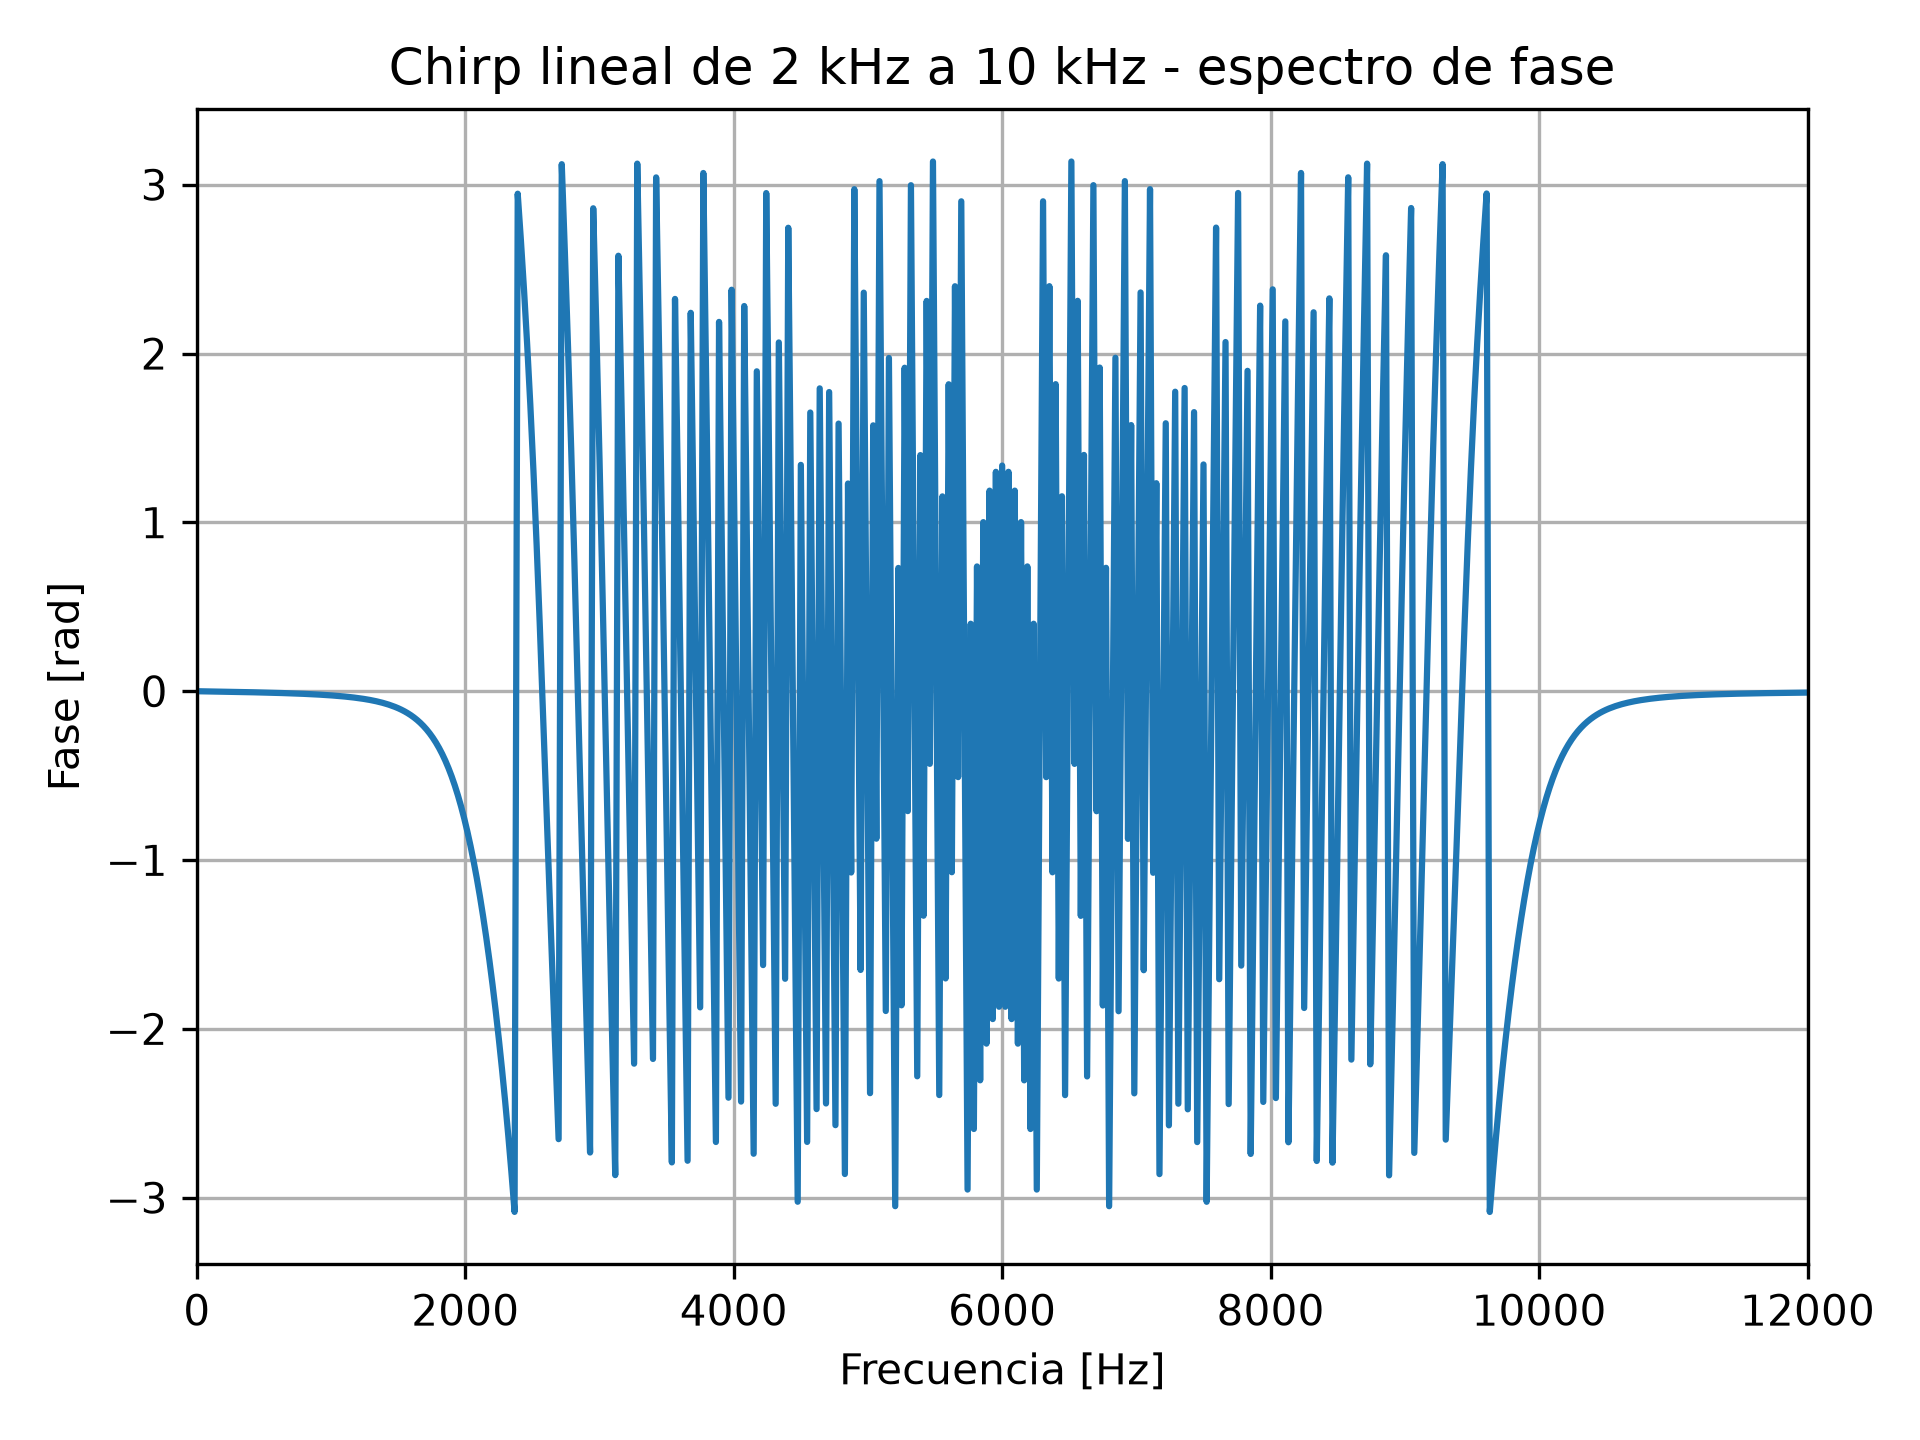
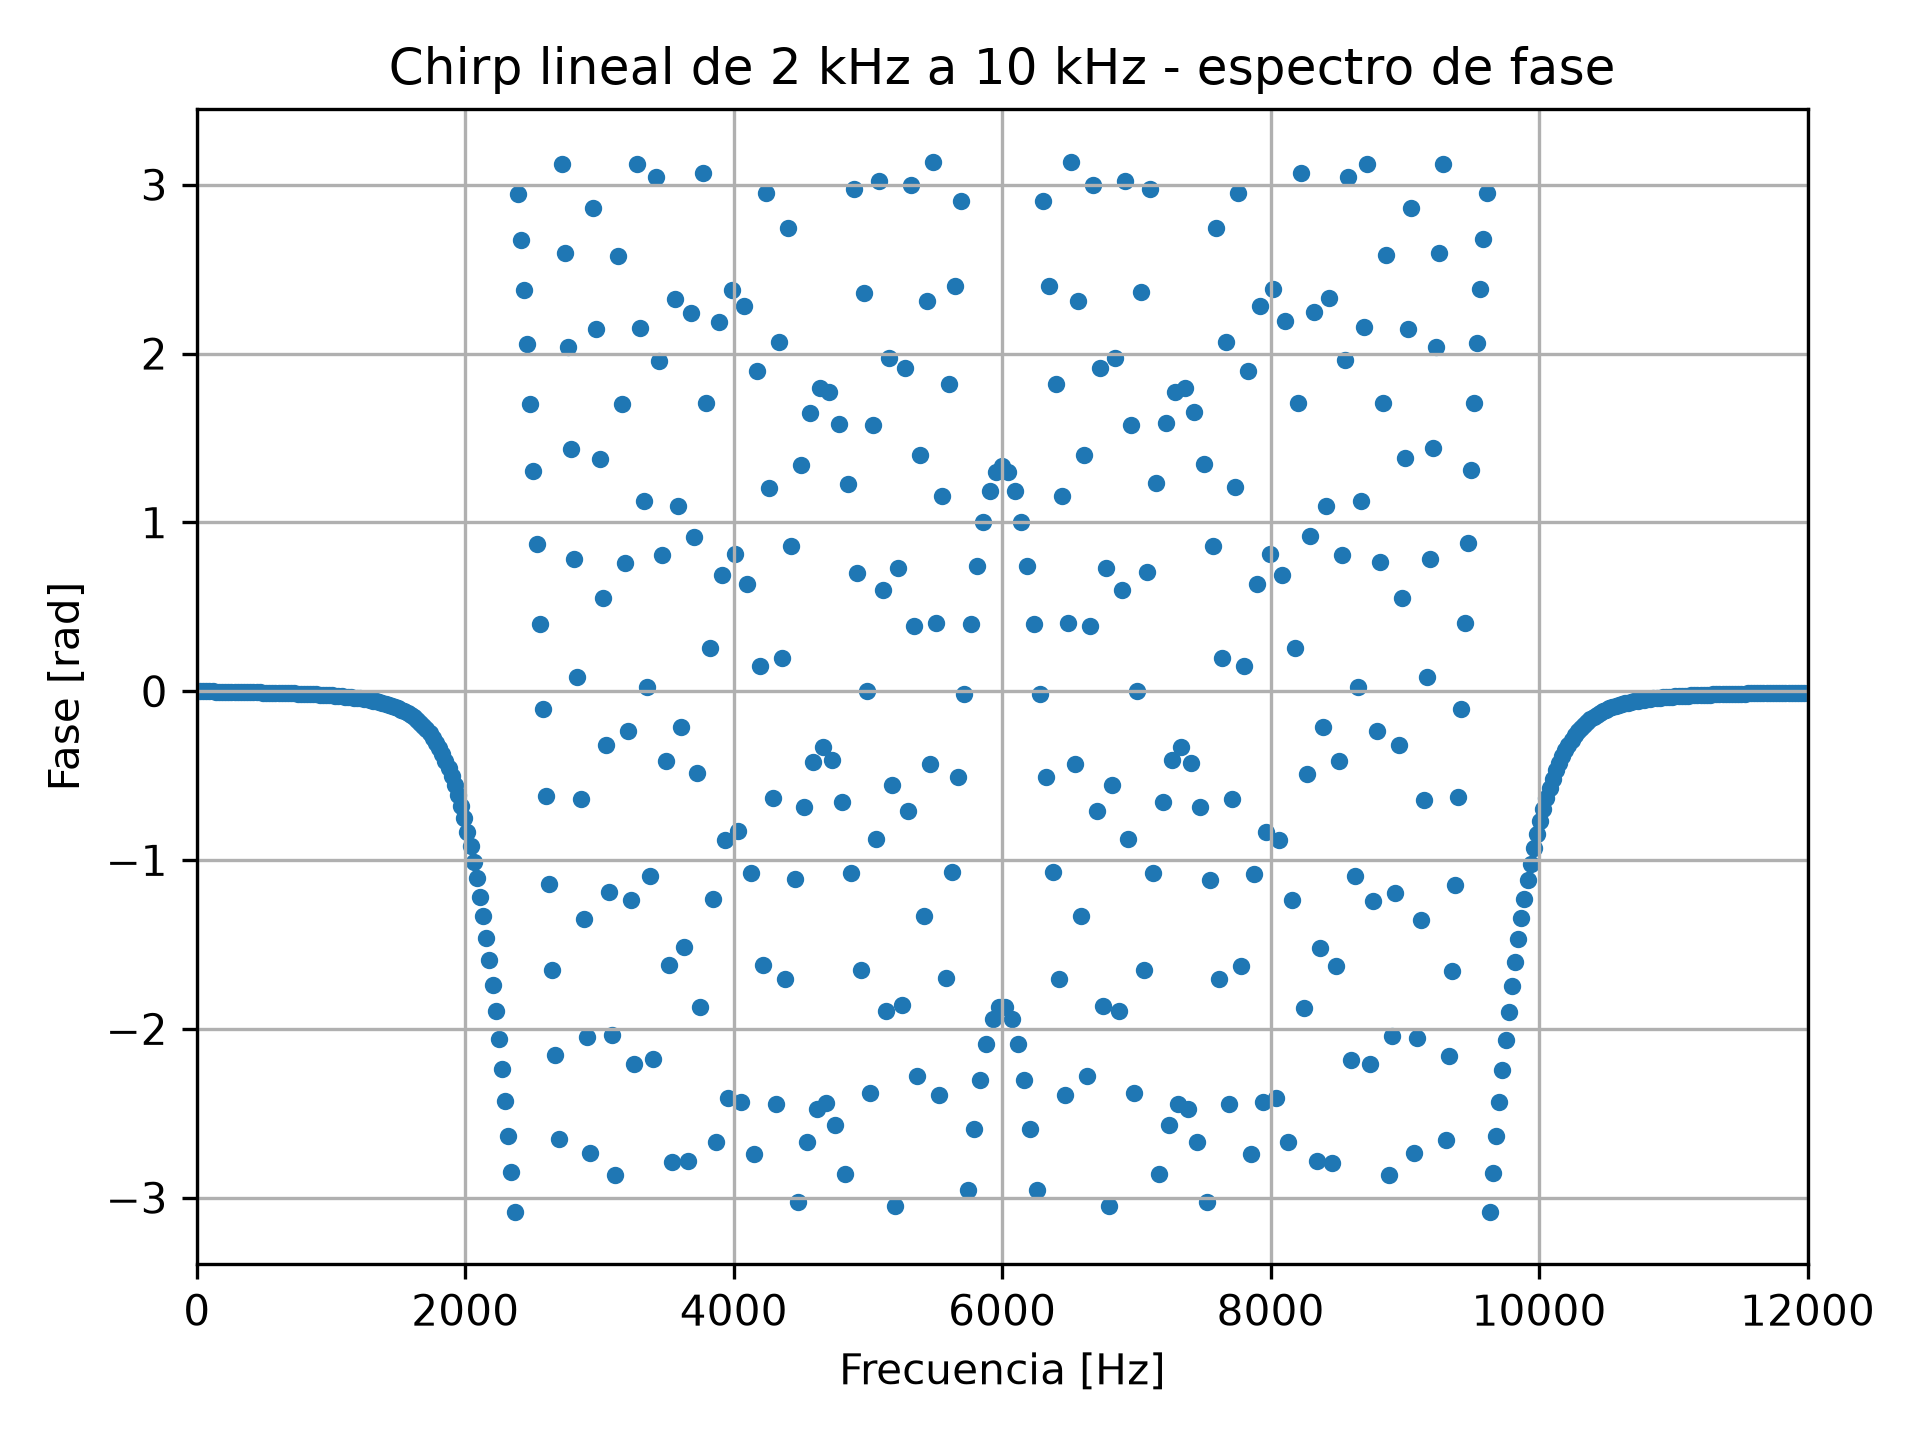
graficas corregidas

Changed region(s): [[0.2188, 0.0938, 0.8125, 0.8438], [0.8125, 0.4688, 0.9375, 0.5312], [0.0938, 0.4688, 0.2188, 0.5]]

diff --git a/proyecto_1_radar_acustico/experiments/fft/spectrum_example.py b/proyecto_1_radar_acustico/experiments/fft/spectrum_example.py
@@ -69,9 +69,9 @@ def calculate_spectrum(signal):
 
     # La fase de componentes prácticamente inexistentes
     # no tiene significado físico útil.
-    threshold = 1e-6
 
-    phase[magnitude < threshold] = np.nan
+    phase_threshold = 0.01 * np.max(magnitude)
+
 
     return frequencies, magnitude, phase
 
@@ -144,10 +144,29 @@ def save_signal_plot(signal, frequencies, magnitude, phase, name, title):
 
     plt.figure()
 
-    plt.plot(
-        frequencies,
-        phase
-    )
+    # Solo se muestra fase en componentes con magnitud
+    # suficientemente significativa.
+    phase_threshold = 0.01 * np.max(magnitude)
+
+    valid_phase = magnitude > phase_threshold
+
+    frequencies_phase = frequencies[valid_phase]
+    phase_values = phase[valid_phase]
+
+    if name == "chirp":
+
+        plt.scatter(
+            frequencies_phase,
+            phase_values,
+            s=10
+        )
+
+    else:
+
+        plt.scatter(
+            frequencies_phase,
+            phase_values
+        )
 
     plt.xlabel("Frecuencia [Hz]")
     plt.ylabel("Fase [rad]")
